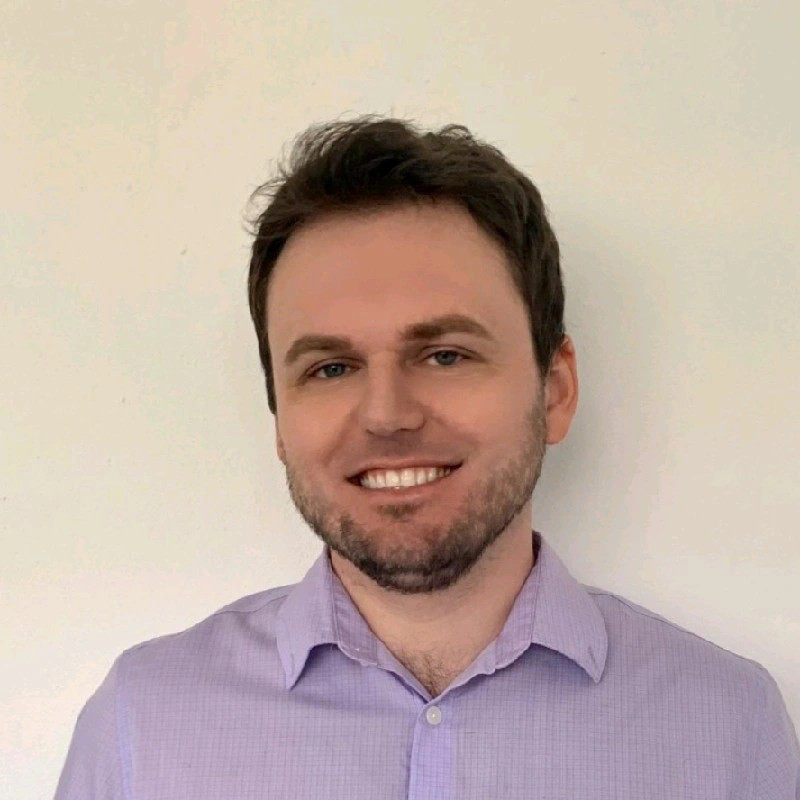
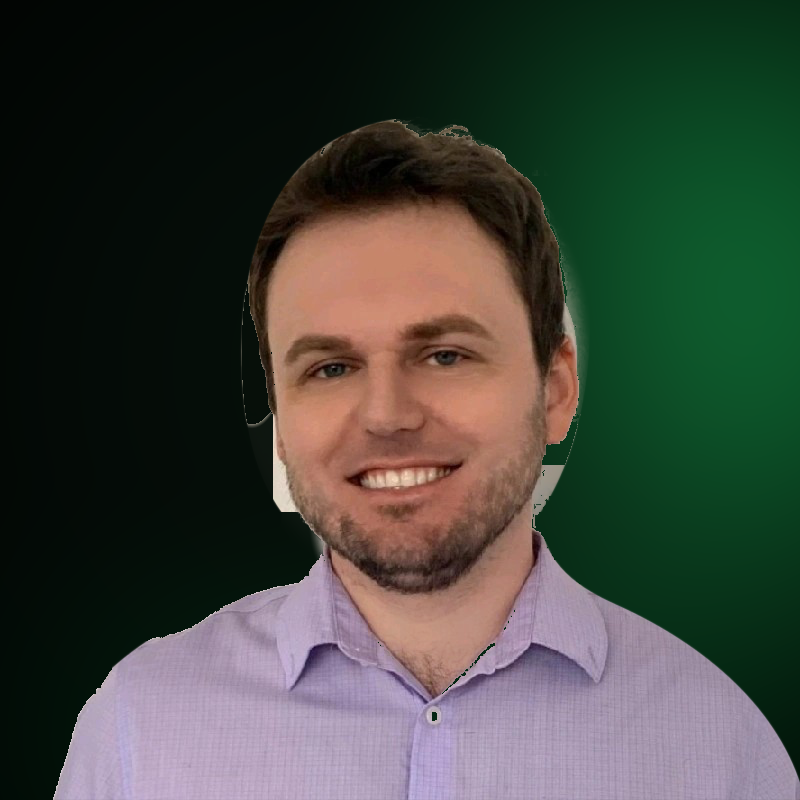
AI generated a better-looking background to the profile photo featured on the portfolio website.

diff --git a/app/page.tsx b/app/page.tsx
@@ -164,14 +164,14 @@ export default function Home() {
             <div className="hero-visual" aria-label="Portfolio preview">
               <div className="profile-orbit">
                 <Image
-                  alt="Martin Prahlin profile photo"
+                  alt="Martin Prahl profile photo"
                   src="/images/martin-profile.png"
                   width={220}
                   height={220}
                   priority
                   className="profile-photo"
                 />
-                <span>Martin Prahlin</span>
+                <span>Martin Prahl</span>
               </div>
 
               <div className="phone-stage">